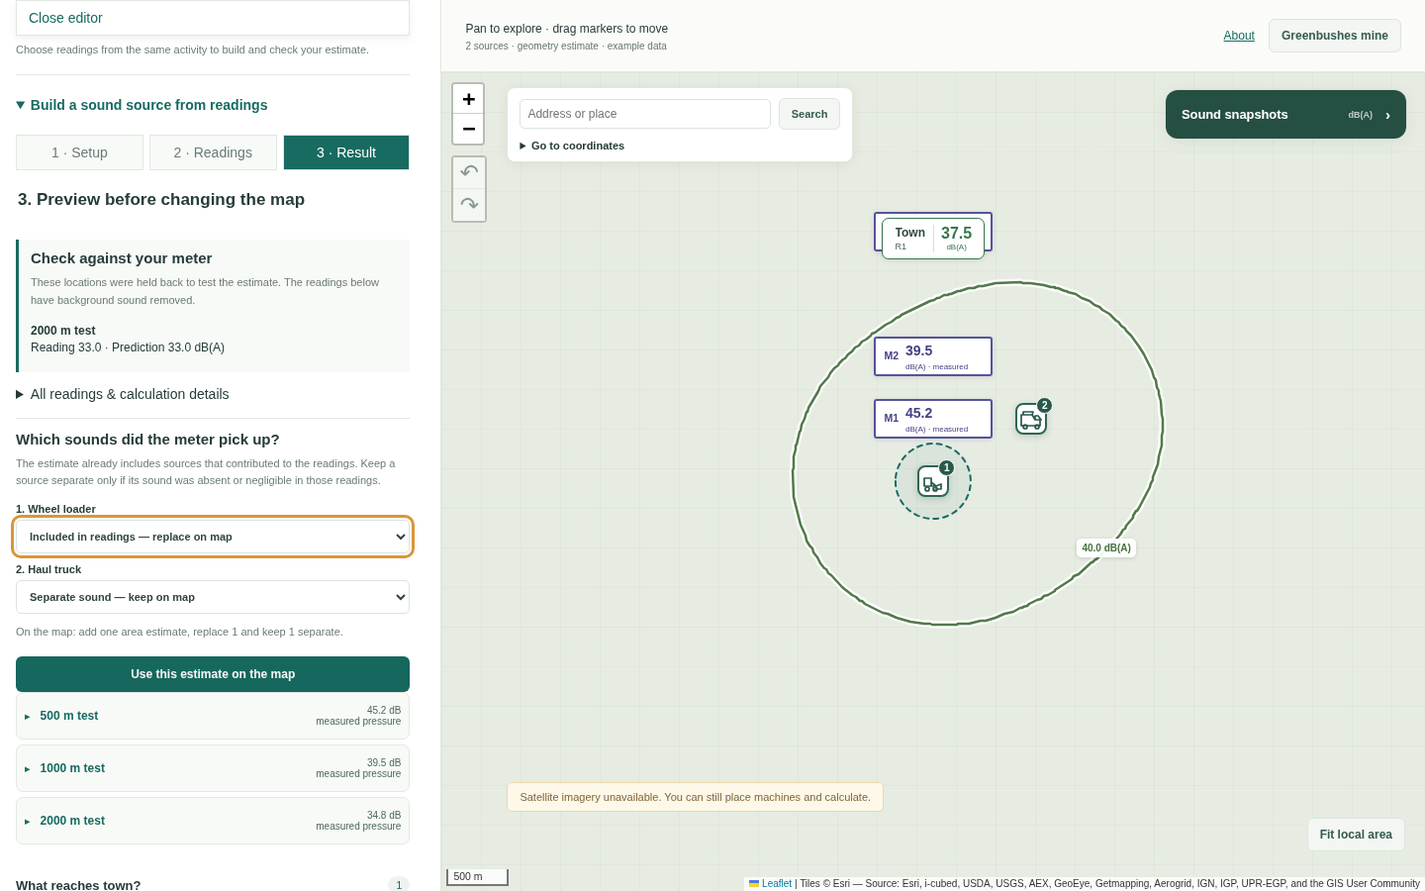
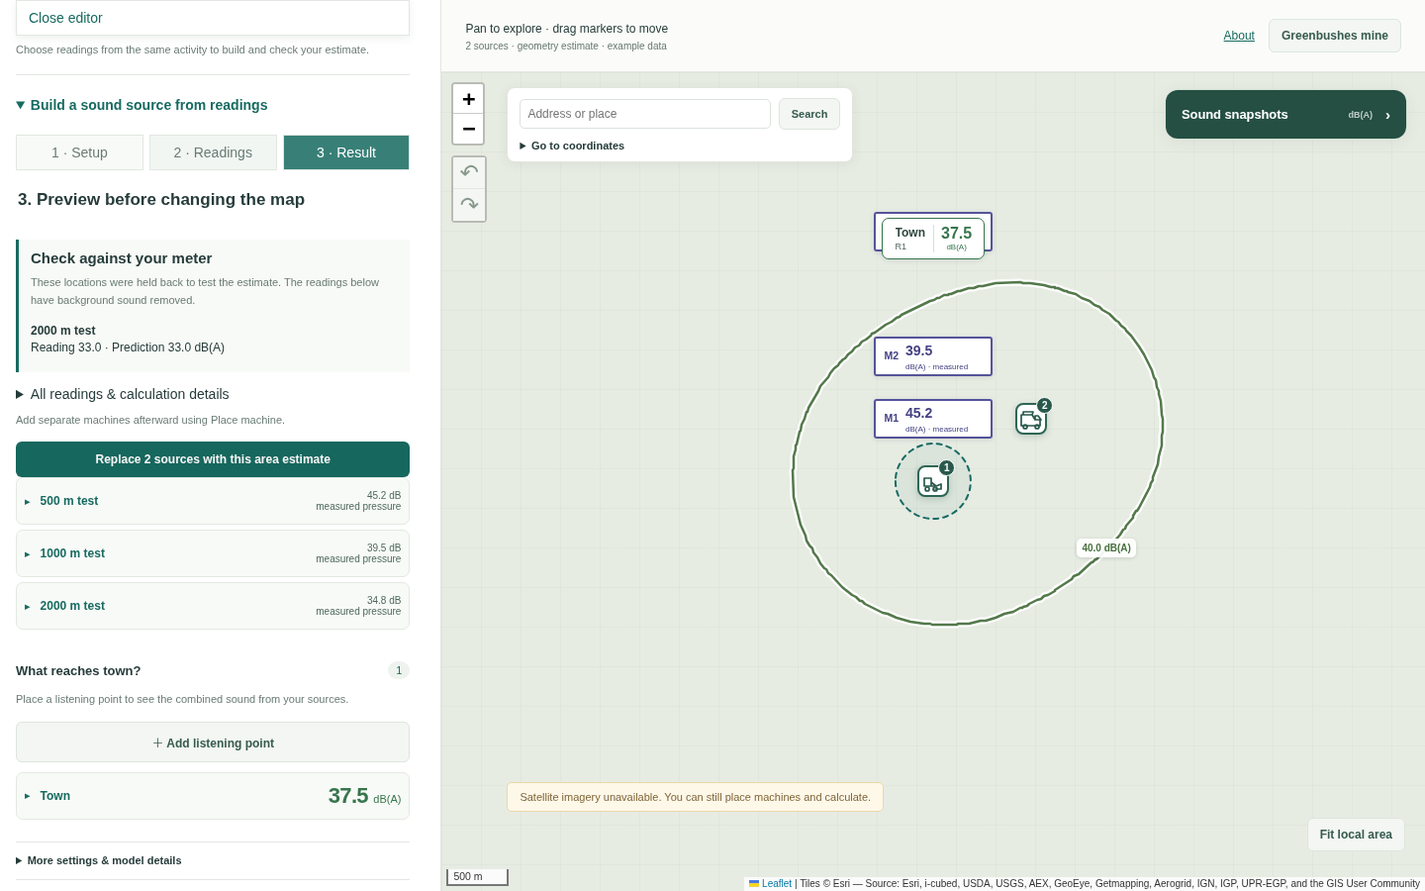
Anchor area estimates, replace placed sources and allow meter pin corrections

diff --git a/src/static/js/ui-fitting.js b/src/static/js/ui-fitting.js
@@ -18,7 +18,6 @@ export class FittingUI {
     this.form.addEventListener('change',()=>{this.invalidate();this.syncMode();this.drawArea();});
     this.form.addEventListener('submit',event=>{event.preventDefault();this.calculate();});
     $('apply-fit-form').onsubmit=event=>{event.preventDefault();this.apply();};
-    $('fit-coverage-list').onchange=()=>this.describeCoverage();
     $('mark-fit-area').onclick=()=>store.setMode('fit-area');
     manager.map.on('click',event=> {
       if(store.mode!=='fit-area') return;
@@ -40,7 +39,7 @@ export class FittingUI {
   /** Cancel stale previews after any accepted input or scene change. */
   invalidate() {
     this.generation++;this.controller?.abort();this.preview=null;
-    $('fit-result').replaceChildren();$('apply-fit-form').hidden=true;$('fit-coverage-list').replaceChildren();$('apply-fit').hidden=true;$('fit-error').textContent='';
+    $('fit-result').replaceChildren();$('apply-fit-form').hidden=true;$('apply-fit').hidden=true;$('fit-error').textContent='';
     $('preview-fit').hidden=false;$('preview-fit').disabled=false;
   }
 
@@ -116,46 +115,29 @@ export class FittingUI {
     finally {if(generation===this.generation) $('preview-fit').disabled=false;}
   }
 
-  /** Ask about overlap only once a whole-area estimate is ready to place. */
+  /** Name the map change on the action that commits the reviewed estimate. */
   showApply() {
-    const sources=this.preview.request.mode==='area'?this.store.sources:[];
-    const list=$('fit-coverage-list');
-    sources.forEach((source,index)=>{
-      const label=document.createElement('label');
-      label.textContent=`${index+1}. ${this.store.typeFor(source).name}`;
-      const choice=document.createElement('select');
-      choice.name=source.id;
-      choice.required=true;
-      choice.add(new Option('Choose what happened during the test',''));
-      choice.add(new Option('Included in readings — replace on map','covered'));
-      choice.add(new Option('Separate sound — keep on map','separate'));
-      label.append(choice); list.append(label);
-    });
-    $('fit-coverage').hidden=sources.length===0;
+    const area=this.preview.request.mode==='area';
+    const count=this.store.sources.length;
+    const button=$('apply-fit');
+    button.textContent='Apply to this machine';
+    if(area) {
+      button.textContent=count
+        ? `Replace ${count} ${count===1?'source':'sources'} with this area estimate`
+        : 'Add area estimate to map';
+    }
+    $('fit-area-next').hidden=!area;
     $('apply-fit-form').hidden=false;
-    this.describeCoverage();
-  }
-
-  /** Show the placement decision before it changes the live sound sources. */
-  describeCoverage() {
-    const choices=[...$('fit-coverage-list').querySelectorAll('select')];
-    const covered=choices.filter(choice=>choice.value==='covered').length;
-    const separate=choices.filter(choice=>choice.value==='separate').length;
-    const pending=choices.length-covered-separate;
-    $('fit-coverage-summary').textContent=pending
-      ? 'Choose an option for each source before applying.'
-      : `On the map: add one area estimate, replace ${covered} and keep ${separate} separate.`;
   }
 
   /** Apply only the current reviewed preview; machine calibration affects one placed instance. */
   apply() {
     const preview=this.preview;if(!preview) return;
-    const choices=new Map(new FormData($('apply-fit-form')));
-    if(!this.store.applyMeasurementFit(preview.request,preview.result,preview.name,choices)) {
-      $('fit-error').textContent='Could not apply. Review the source choices and available space (100 sources and 50 types per scenario).';return;
+    if(!this.store.applyMeasurementFit(preview.request,preview.result,preview.name)) {
+      $('fit-error').textContent='Could not apply. Check the selected source and the 50-type catalogue limit.';return;
     }
     this.root.open=false;document.dispatchEvent(new Event('estimate-applied'));
-    this.say(preview.request.mode==='area'?'Area estimate added. Listening points and contours now include it.':'Calibration applied to this machine only. Original catalogue data and readings were retained.');
+    this.say(preview.request.mode==='area'?'Area estimate added. Use Place machine to add separate equipment.':'Calibration applied to this machine only. Original catalogue data and readings were retained.');
   }
 
   /** Render the operating footprint as context only, never as an attenuation barrier. */

diff --git a/src/static/js/ui-measurements.js b/src/static/js/ui-measurements.js
@@ -2,7 +2,7 @@
 import {$,escapeHtml} from './utils.js';
 import {RequestLane} from './api.js';
 
-/** Measurement records, non-draggable pins and a bounded cached direct-comparison lane. */
+/** Measurement records, movable pins and a bounded cached direct-comparison lane. */
 export class MeasurementUI {
   /** @param {import('./state.js').ScenarioStore} store Scenario state.
    * @param {import('./map-manager.js').MapManager} manager Map and placement state.
@@ -90,6 +90,17 @@ export class MeasurementUI {
       let card=[...container.children].find(c=>c.dataset.measurementId===item.id);
       const signature=JSON.stringify(item);
       if(card?.dataset.record===signature) {card.querySelector('.entity-summary strong').textContent=this.label(item,index);return;}
+      // A map correction updates coordinate inputs in place, preserving other unsaved fields.
+      if(card) {
+        const previous=JSON.parse(card.dataset.record);
+        if(JSON.stringify({...item,lat:previous.lat,lng:previous.lng})===card.dataset.record) {
+          const fields=card.querySelector('form').elements;
+          fields.lat.value=item.lat;
+          fields.lng.value=item.lng;
+          card.dataset.record=signature;
+          return;
+        }
+      }
       const open=card?.querySelector('details').open;
       if(!card) {card=document.createElement('div');card.className='item-card measurement-card';card.dataset.measurementId=item.id;container.append(card);}
       card.innerHTML=this.card(item,index);card.dataset.record=signature;
@@ -134,17 +145,28 @@ export class MeasurementUI {
     requestAnimationFrame(()=>card.querySelector('[name=level_db]').focus());
   }
 
-  /** Distinct fixed observation markers; source movement never changes their locations. */
+  /** Render observation markers. Dragging corrects only the selected reading’s coordinates. */
   renderMarkers() {
     this.layer.clearLayers();
     const items=[...this.store.measurements,...(this.draft?[{...this.draft,id:'draft'}]:[])];
     items.forEach((item,index)=> {
       const text=item.level_db==null?'…':item.level_db.toFixed(1),units=item.metric && item.metric!=='unknown'?'dB(A)':'dB · type unknown';
-      const marker=L.marker([item.lat,item.lng],{draggable:false,icon:L.divIcon({className:'measurement-location',iconSize:[120,40],iconAnchor:[60,20],html:`<div class="measurement-pin" data-measurement-pin="${escapeHtml(item.id)}"><b>${item.id==='draft'?'New':'M'+(index+1)}</b><strong>${text}<small>${units} · measured</small></strong></div>`})}).addTo(this.layer);
-      marker.getElement().setAttribute('aria-label',`${this.label(item,index)}: ${text} ${units}, measured pressure. Open observation.`);
+      const marker=L.marker([item.lat,item.lng],{draggable:true,icon:L.divIcon({className:'measurement-location',iconSize:[120,40],iconAnchor:[60,20],html:`<div class="measurement-pin" data-measurement-pin="${escapeHtml(item.id)}"><b>${item.id==='draft'?'New':'M'+(index+1)}</b><strong>${text}<small>${units} · measured</small></strong></div>`})}).addTo(this.layer);
+      marker.getElement().setAttribute('aria-label',`${this.label(item,index)}: ${text} ${units}, measured pressure. Drag to correct its location or select to open.`);
       const tooltip=document.createElement('span'),title=document.createElement('strong');title.textContent=this.label(item,index);tooltip.append(title);
       marker.bindTooltip(tooltip,{direction:'top',className:'object-tooltip'});
       marker.on('tooltipopen',event=>this.manager.fitObjectTooltip?.(event.tooltip,marker));
+      marker.on('dragend',()=>{
+        const point=marker.getLatLng().wrap();
+        const position={lat:Math.max(-85,Math.min(85,point.lat)),lng:point.lng};
+        if(item.id==='draft') {
+          this.draft=position;
+          this.render();
+        } else {
+          this.store.updateMeasurement(item.id,position);
+        }
+        this.say('Measurement location updated.');
+      });
       marker.on('click',()=>{this.store.setMode(null);this.open(item.id);});
     });
   }

diff --git a/tests/browser/measurement-fitting.html b/tests/browser/measurement-fitting.html
@@ -25,21 +25,17 @@ try {
  check(derived.fitting.request.activity==='Idle' && derived.fitting.result.lwa===111,'evidence detached from transient preview objects');
  check(JSON.stringify(store.measurements)===observations && JSON.stringify(store.receivers)===receivers && JSON.stringify(store.contours)===contours && store.background_db===30,'observation, receiver, contour and background inputs unchanged');
  const area={...request,mode:'area',source_id:null,radius_m:30},ready={...result,lwa:110};
- check(!store.applyMeasurementFit(area,ready,'Area'),'area cannot double count existing sources without explicit replacement');
- const selection=(...roles)=>new Map(store.sources.map((source,index)=>[source.id,roles[index]]));
- const before=JSON.stringify(store.sources);
- check(!store.applyMeasurementFit(area,ready,'Area',selection('covered')) && JSON.stringify(store.sources)===before,'incomplete coverage cannot partially replace the map');
- check(store.applyMeasurementFit(area,ready,'Area',selection('covered','separate')),'area can replace just the included machine');
- check(store.sources.length===2 && store.sources[0].id==='s2' && store.typeFor(store.sources[1]).kind==='area','separate machine and area form one acoustic scenario');
- check(store.typeFor(store.sources[1]).fitting.covered_source_ids.join()==='s1','evidence records exactly which placed sources were represented');
- check(store.applyMeasurementFit(area,ready,'Second area',selection('separate','separate')) && store.sources.length===3,'area can be entirely separate from existing sources');
- check(store.applyMeasurementFit(area,ready,'Whole operation',selection('covered','covered','covered')) && store.sources.length===1,'one estimate can replace every active source');
- const full=new ScenarioStore();
- for(let i=0;i<100;i++) full.addSource(full.types[0].id,0,i);
- const keepAll=new Map(full.sources.map(source=>[source.id,'separate']));
- check(!full.applyMeasurementFit(area,ready,'Too many',keepAll) && full.sources.length===100,'keeping 100 sources cannot create an unsavable 101st placement');
- keepAll.set(full.sources[0].id,'covered');
- check(full.applyMeasurementFit(area,ready,'At capacity',keepAll) && full.sources.length===100,'replacing one of 100 leaves room for the area');
+ check(store.applyMeasurementFit(area,ready,'Whole operation'),'area applies without per-source choices');
+ check(store.sources.length===1 && store.typeFor(store.sources[0]).kind==='area','area replaces all placed machines');
+ check(store.typeFor(store.sources[0]).fitting.covered_source_ids.join()==='s1,s2','evidence records every replaced placement');
+ check(JSON.stringify(store.measurements)===observations && JSON.stringify(store.receivers)===receivers,'replacement preserves observations and listening points');
+ const fixed=structuredClone(store.sources[0]);
+ store.updateSource(fixed.id,{lat:1});
+ store.addSource(fixed.type_id,2,2);
+ check(store.sources.length===1 && store.sources[0].lat===fixed.lat,'fixed area cannot be moved or placed a second time');
+ store.addSource(id,0,0.1);
+ check(store.toPayload().sources.length===2 && store.sources[1].type_id===id,'separately placed equipment joins the prediction');
+ check(store.applyMeasurementFit(area,ready,'New area') && store.sources.length===1,'replacement also removes earlier estimates');
  const fresh=new ScenarioStore();fresh.measurements=structuredClone(store.measurements);
  check(fresh.applyMeasurementFit(area,ready,'No-machine area'),'area estimate needs no placed machine');
  check(fresh.sources.length===1 && fresh.toPayload().sources.length===1,'area participates in existing prediction/contour pipeline');

diff --git a/src/static/js/state.js b/src/static/js/state.js
@@ -160,7 +160,7 @@ export class ScenarioStore {
    * @param {?Object} patch Coordinates, or null for removal. */
   editPlacement(collection,id,patch) {
     const items=this[collection], index=items.findIndex(item=>item.id===id);
-    if (index<0) return;
+    if (index<0 || (patch && collection==='sources' && this.typeFor(items[index]).kind==='area')) return;
     const before=structuredClone(items[index]);
     if (patch) {
       const lat=patch.lat ?? before.lat, lng=patch.lng ?? before.lng;
@@ -174,7 +174,7 @@ export class ScenarioStore {
 
   /** @param {string} type_id Selected type. @param {number} lat Latitude. @param {number} lng Longitude. */
   addSource(type_id, lat, lng) {
-    if (!this.types.some(t=>t.id===type_id) || this.sources.length>=100) return;
+    if (!this.types.some(t=>t.id===type_id && t.kind!=='area') || this.sources.length>=100) return;
     const source={id:uuid(),type_id,lat,lng}; this.sources.push(source);
     this.recordPlacement('sources',null,source,this.sources.length-1,'Place machine');
   }
@@ -227,15 +227,13 @@ export class ScenarioStore {
 
   /** Apply a reviewed estimate atomically, retaining originals in its evidence snapshot.
    * @param {Object} request Fitting inputs. @param {Object} result Successful preview.
-   * @param {string} name Area name. @param {Map<string,string>} [choices] Each placed source marked covered or separate.
+   * @param {string} name Area name.
    * @return {boolean} Whether the reviewed change was accepted. */
-  applyMeasurementFit(request,result,name,choices=new Map()) {
+  applyMeasurementFit(request,result,name) {
     if(!result.ready || !Number.isFinite(result.lwa) || result.lwa<0 || result.lwa>300 || this.types.length>=50) return false;
     const source=this.sources.find(s=>s.id===request.source_id),area=request.mode==='area';
     if(!area && !source) return false;
-    const covered=area?this.sources.filter(item=>choices.get(item.id)==='covered'):[];
-    if(area && (!name.trim() || this.sources.length-covered.length>=100 ||
-      this.sources.some(item=>!['covered','separate'].includes(choices.get(item.id))))) return false;
+    if(area && !name.trim()) return false;
     const original=area ? {} : this.typeFor(source),id=uuid();
     const type={...structuredClone(original),id,name:area ? name.trim() : original.name,lwa:result.lwa,
       provenance:'example',spectrum:null,kind:area ? 'area' : original.kind || 'generic',
@@ -243,9 +241,8 @@ export class ScenarioStore {
       note:`Measurement-derived estimate for ${request.activity}. ${request.fit_ids.length} fit readings; ${request.check_ids.length} independent check readings. Background ${request.background_db} dB(A). Full-space point-source fit; not validated sound power.`,
       fitting:{request:structuredClone(request),result:structuredClone(result),model:'full-space-log-fit-v1'}};
     if(area) {
-      type.fitting.covered_source_ids=covered.map(item=>item.id);
-      this.sources=this.sources.filter(item=>choices.get(item.id)==='separate');
-      this.sources.push({id:uuid(),type_id:id,...result.centre});
+      type.fitting.covered_source_ids=this.sources.map(item=>item.id);
+      this.sources=[{id:uuid(),type_id:id,...result.centre}];
     } else source.type_id=id;
     this.types.push(type);
     this.clearHistory();this.setMode(null);this.notify('catalogue');return true;

diff --git a/tests/browser/measurements.html b/tests/browser/measurements.html
@@ -22,7 +22,7 @@ try {
  const context=ui.context(sourceId);
  const id=store.addMeasurement({level_db:0,lat:0,lng:.01,source_id:sourceId,source_context:context});await settle();
  check(store.measurements[0].level_db===0 && store.measurements[0].metric==='unknown' && store.measurements[0].meter==='','zero pressure retained; unknown meter/metric not invented');
- check(!ui.layer.getLayers()[0].options.draggable,'observation pins cannot be dragged into hypothetical positions');
+ check(ui.layer.getLayers()[0].options.draggable,'observation locations can be corrected by dragging');
  check(calls.length===1 && calls[0].measurements.length===1,'new point uses the separate bounded comparison lane');
  store.updateSource(sourceId,{lat:.1});await settle();
  check(store.measurements[0].lat===0 && store.measurements[0].source_context.lat===0,'source movement leaves the observation and recorded setup fixed');
@@ -36,9 +36,16 @@ try {
  store.setMode('measurement');map.fire('click',{latlng:L.latLng(0,.02)});await settle();
  check(ui.draft && store.measurements.length===1 && store.receivers.length===0,'placement creates a reading draft, not a simulated receiver');
  const form=document.querySelector('[data-reading=draft]');check(form.querySelector('[name=level_db]').value==='' && form.querySelector('[name=duration_s]').value==='','required pressure and unknown duration start blank');
- form.querySelector('[name=level_db]').value='-8';form.requestSubmit();await settle();
+ form.querySelector('[name=level_db]').value='-8';
+ ui.layer.getLayers().at(-1).setLatLng([0.01,0.03]).fire('dragend');
+ check(ui.draft.lat===0.01 && form.elements.lat.value==='0.01' && form.elements.level_db.value==='-8','moving a draft retains its unsaved reading');
+ form.requestSubmit();await settle();
  check(store.measurements.length===2 && calls.at(-1).measurements.length===1,'only the new uncached point is requested');
  check(document.querySelectorAll('[data-measurement-pin]').length===2,'fixed observation markers remain distinct');
+ const savedForm=document.querySelector('[data-reading="'+id+'"]');savedForm.elements.note.value='Unsaved note';
+ const beforeMove=calls.length;ui.layer.getLayers()[0].setLatLng([.02,.04]).fire('dragend');await settle();
+ check(calls.length===beforeMove+1 && calls.at(-1).measurements.length===1 && store.measurements[0].lat===.02 && store.measurements[0].level_db===-5,'moving a recorded pin refreshes only its location comparison');
+ check(savedForm.isConnected && savedForm.elements.note.value==='Unsaved note' && savedForm.elements.lat.value==='0.02','pin correction preserves edits in the open form');
  const record=structuredClone(store.measurements),doc={...store.toPayload(),types:store.types,levels:[40],measurements:record};
  store.restore(doc);await settle();check(JSON.stringify(store.measurements)===JSON.stringify(record),'restore preserves complete and partial observation data');
  const button=document.querySelectorAll('[data-delete-reading]')[1];button.click();check(store.measurements.length===2,'first delete click only confirms intent');

diff --git a/src/static/js/ui-catalogue.js b/src/static/js/ui-catalogue.js
@@ -14,7 +14,7 @@ function coverageNote(fit) {
     const type=fit.request.types.find(item=>item.id===source.type_id);
     return [`${index+1}. ${escapeHtml(type.name)}`];
   });
-  return `<p>Map sources included when applied: ${labels.join(', ') || 'none'}.</p>`;
+  return `<p>Map sources replaced when applied: ${labels.join(', ') || 'none'}.</p>`;
 }
 
 /** Machine catalogue forms, selection and cloud metadata controls. */
@@ -98,13 +98,12 @@ export class CatalogueUI {
 
     $('catalogue-count').textContent = `${this.store.types.length} types`;
     const old = $('place-type').value;
-    $('place-type').innerHTML = this.store.types.length
-      ? this.store.types.map((t) => `<option value="${t.id}">${escapeHtml(t.name)}${t.kind==='area'?' · area estimate':t.fitting?' · calibrated':''}</option>`).join('')
+    const machines=this.store.types.filter(type=>type.kind!=='area');
+    $('place-type').innerHTML = machines.length
+      ? machines.map(t=>`<option value="${escapeHtml(t.id)}">${escapeHtml(t.name)}${t.fitting?' · calibrated':''}</option>`).join('')
       : '<option value="">Add a machine type first</option>';
-    if (this.store.types.some((t) => t.id === old)) $('place-type').value = old;
-    $('place-source').disabled = !this.store.types.length;
-    const placementLabel=()=>{$('place-source').textContent=this.store.types.find(t=>t.id===$('place-type').value)?.kind==='area'?'Place area estimate':'Place machine';};
-    $('place-type').onchange=placementLabel;placementLabel();
+    if(machines.some(type=>type.id===old)) $('place-type').value=old;
+    $('place-source').disabled=!machines.length;
     $('demo').disabled = Boolean(
       this.store.sources.length || this.store.receivers.length,
     );

diff --git a/tests/browser/fitting-workflow.html b/tests/browser/fitting-workflow.html
@@ -53,13 +53,9 @@ try {
  check([...document.querySelectorAll('#fit-selections select')].map(s=>s.value).join(',')==='fit,fit,check','refreshing suggestions retains selected roles');
  set('mode','area');set('lat',0);set('lng',0);set('radius',50);
  await ui.calculate();
- const coverage=document.querySelector('#fit-coverage-list'),apply=document.querySelector('#apply-fit-form');
- check(!document.querySelector('#fit-coverage').hidden && coverage.children.length===2,'area result asks about every current source including earlier areas');
- check(!apply.checkValidity(),'an unclassified source blocks placement');
- const previewRequests=requests;
- for(const select of coverage.querySelectorAll('select')) {select.value='separate';select.dispatchEvent(new Event('change',{bubbles:true}));}
- check(apply.checkValidity() && document.querySelector('#fit-coverage-summary').textContent.includes('keep 2'),'all-separate scenario previews the resulting source selection');
- check(requests===previewRequests && ui.preview,'coverage choices do not recompute power or discard the reviewed estimate');
+ const apply=document.querySelector('#apply-fit-form');
+ check(document.querySelector('#apply-fit').textContent==='Replace 2 sources with this area estimate','apply action explains replacement including the earlier area');
+ check(!apply.querySelector('select') && store.sources.length===2,'preview offers one deliberate action and preserves existing map');
  store.removeSource('area-first');
  check(apply.hidden && !ui.preview,'source change cancels placement of a stale estimate');
  await settle();manager.map.remove();

diff --git a/src/static/js/workflow.js b/src/static/js/workflow.js
@@ -19,7 +19,7 @@ export function setupWorkflow(store) {
     tabs.forEach((tab,i)=>{tab.setAttribute('aria-selected',String(i===index));tab.tabIndex=i===index?0:-1;panels[i].hidden=i!==index;});
     $('listening-workspace').hidden=index===2;$('equipment-workspace').hidden=index!==0;
     $('workflow-help').hidden=index===0;
-    $('workflow-help').textContent=index===1?'Record the sound at each test location. Use readings from the same activity to estimate one machine or a whole site.':'Choose which sound levels appear on the map.';
+    $('workflow-help').textContent=index===1?'Record the sound at each test location. Drag a meter pin to correct its location.':'Choose which sound levels appear on the map.';
     if(index===1) measurements.open=true;
     document.querySelector('.sidebar').dispatchEvent(new Event('sidebar-view'));
     if(focus) tabs[index].focus();

diff --git a/src/templates/partials/measurement-fitting.html b/src/templates/partials/measurement-fitting.html
@@ -32,12 +32,7 @@
     </fieldset>
   </form>
   <form id="apply-fit-form" hidden>
-    <div id="fit-coverage" hidden>
-      <h3>Which sounds did the meter pick up?</h3>
-      <p class="hint">The estimate already includes sources that contributed to the readings. Keep a source separate only if its sound was absent or negligible in those readings.</p>
-      <div id="fit-coverage-list"></div>
-      <p id="fit-coverage-summary" class="hint" role="status"></p>
-    </div>
+    <p id="fit-area-next" class="hint" hidden>Add separate machines afterward using Place machine.</p>
     <button id="apply-fit" type="submit" class="primary" hidden>Use this estimate on the map</button>
   </form>
 </details>

diff --git a/src/static/js/ui-entities.js b/src/static/js/ui-entities.js
@@ -57,6 +57,9 @@ export class EntitiesUI {
    * @return {string} Escaped coordinate-editing form markup.
    */
   positionForm(item, collection, extra = '', summary = '') {
+    if(collection==='sources' && this.store.typeFor(item).kind==='area') {
+      return `<details><summary class="entity-summary">${summary}</summary><div class="entity-editor"><p>Fixed area location. To change its centre, build a new estimate.</p>${extra}</div></details>`;
+    }
     return (
       `<details><summary class="entity-summary">${summary || (collection === 'sources' ? 'Edit position' : 'Details &amp; position')}</summary>` +
       `<div class="entity-editor">${extra}` +

diff --git a/src/static/css/sidebar-simple.css b/src/static/css/sidebar-simple.css
@@ -166,9 +166,6 @@ details[open] > .entity-summary::before { content:'▾'; }
 #listening-workspace { margin:0; border-top:0; }
 
 #measurement-fit:has([data-fit-step]:last-of-type[hidden]) #apply-fit-form { display:none; }
-#fit-coverage { border-top:1px solid var(--line); margin:16px 0; padding-top:12px; }
-#fit-coverage h3 { font-size:15px; margin:0; }
-#fit-coverage-list label { color:inherit; font-weight:600; }
 .fit-checks { border-left:3px solid var(--teal); padding:4px 12px; margin:14px 0; background:var(--surface-alt); }
 .fit-checks h3 { font-size:15px; margin:6px 0; }
 .fit-checks ul { list-style:none; padding:0; }

diff --git a/src/static/js/map-manager.js b/src/static/js/map-manager.js
@@ -260,7 +260,7 @@ export class MapManager {
         });
         const marker = L.marker([item.lat, item.lng], {
           icon,
-          draggable: true,
+          draggable: machine?.kind!=='area',
           alt: label,
           riseOnHover: true,
         }).addTo(this.markers);
